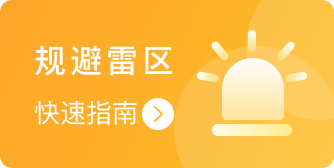
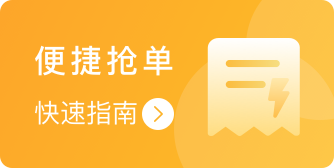
基本界面修改

Changed region(s): [[0.5689, 0.1786, 0.9281, 0.8333], [0.0898, 0.2679, 0.5389, 0.4464]]

diff --git a/lib/view/main_view/home/home_page_agency.dart b/lib/view/main_view/home/home_page_agency.dart
@@ -26,7 +26,7 @@ class HomePageAgencyState extends State<HomePageAgency> {
           child: Container(
               padding: EdgeInsets.all(10),
               child: Text(
-                  '代理奖惩：\n•	A：奖励规则\n•	直接收益：平台设置了代理模式，当你抢单成功时，你会根据自己的代理比例获得相应的代理收益，代理收益会直接实时到账，进入你的现余额；\n•	直推收益：分享好友，创建自己的团队，也可以从自己的团队中获得更多的收益。分享时设置的下级比例为下级抢单成功时获取的代理收益比例，（你的代理比例—下级的代理比例）*下级抢单的金额即为下级为你赚取的收益；\n•	团队收益：扩大团队可获得更多的团队收益。\n•	B：惩罚方法\n•	1：每位代理必须要求下级抢单人员务必遵守平台的抢单规则，如果出现下级跑单的行为有义务配合平台客服联系下级追回款项。（如果该款项无法追回，将扣除代理该笔款项10%的费用作为补偿）\n•	2：必须要求下级会员收到款项及时确定，如果出现多收款或者少收款的情况，第一时间联系客服处理。'))),
+                  '•	直接收益：\n\n平台设置了代理模式，当你抢单成功时，你会根据自己的代理比例获得相应的代理收益，代理收益会直接实时到账，进入你的现余额；\n\n•	直推收益：\n\n分享好友，创建自己的团队，也可以从自己的团队中获得更多的收益。分享时设置的下级比例为下级抢单成功时获取的代理收益比例，（你的代理比例—下级的代理比例）*下级抢单的金额即为下级为你赚取的收益；\n\n•	团队收益：\n\n扩大团队可获得更多的团队收益。\n'))),
     );
   }
 }

diff --git a/lib/view/main_view/me/my_about.dart b/lib/view/main_view/me/my_about.dart
@@ -26,7 +26,7 @@ class MyAboutState extends State<MyAbout> {
         child: Container(
             padding: EdgeInsets.all(10),
             child: Text(
-                '•	一款可以赚钱的APP，只需要添加银行卡并进行抢单收款，就可以为您产生收益。\n •	钱包金额\n •	余额是指您账户上的现金额，是您充值和收益的总额。\n •	打码量\n •	为了平台正常运转使用，当您充值的时候，平台会按比例增加您的应打码量，您抢单确认成功总额大于充值金额的70%时，您可以提现。\n •	冻结金额\n •	提现的时候，为了防止提现与抢单冲突，会把提现的押金金额暂时冻结起来，剩下的金额可用来抢单;抢单成功时，也会把部分金额放入冻结金额中。\n •	充值\n •	充值到系统提供的对应银行卡账户，审核通过后，会存到您押金中。'
+                ' •	一款可以赚钱的APP，只需要添加银行卡并进行抢单收款，就可以为您产生收益。\n\n •	钱包金额\n\n •	余额是指您账户上的现金额，是您充值和收益的总额。\n \n•	抢单额度\n\n •	为了平台正常运转使用，当您充值的时候，平台会按比例增加您的抢单额度,匹配订单时会根据抢单额度来生成订单。\n\n •	冻结金额\n\n •	提现的时候，为了防止提现与抢单冲突，会把提现的押金金额暂时冻结起来，剩下的金额可用来抢单。\n \n•	充值\n \n•	充值到系统提供的对应银行卡账户，审核通过后，会存到您押金中。'
             )
         )
     ));

diff --git a/lib/view/main_view/home/home_page.dart b/lib/view/main_view/home/home_page.dart
@@ -84,9 +84,17 @@ class _HomePageState extends State<HomePage> {
         } else if (tag == 1) {
           Navigator.of(context).pushNamed(HomePageAgent.tag);
         } else if (tag == 2) {
-          Navigator.of(context).pushNamed(HomePageManual.tag);
+//          Navigator.of(context).pushNamed(HomePageManual.tag);
+          Navigator.of(context)
+              .push(MaterialPageRoute(builder: (BuildContext context) {
+            return HomePageManualDetail(imageName: 'icon_manual_recharge',titleName: WalletLocalizations.of(context).homePageManualRecharge);
+          }));
         } else if (tag == 3) {
-          Navigator.of(context).pushNamed(HomePageAvoiding.tag);
+//          Navigator.of(context).pushNamed(HomePageAvoiding.tag);
+          Navigator.of(context)
+              .push(MaterialPageRoute(builder: (BuildContext context) {
+            return HomePageManualDetail(imageName: 'icon_course_detail',titleName: WalletLocalizations.of(context).homePageManualCourse);
+          }));
         } else if (tag == 4) {
           Navigator.of(context)
               .push(MaterialPageRoute(builder: (BuildContext context) {

diff --git a/lib/l10n/WalletLocalizations.dart b/lib/l10n/WalletLocalizations.dart
@@ -55,7 +55,7 @@ class WalletLocalizations {
       'homePageAgent': '代理模式',
       'homePageAgentOperation': '代理操作',
       'homePageAgentAvoiding': '规避雷区',
-      'homePageAgentAgency': '代理奖惩',
+      'homePageAgentAgency': '代理奖励',
 
 
       'sellcoinTotalAssets': '代理总收益',
